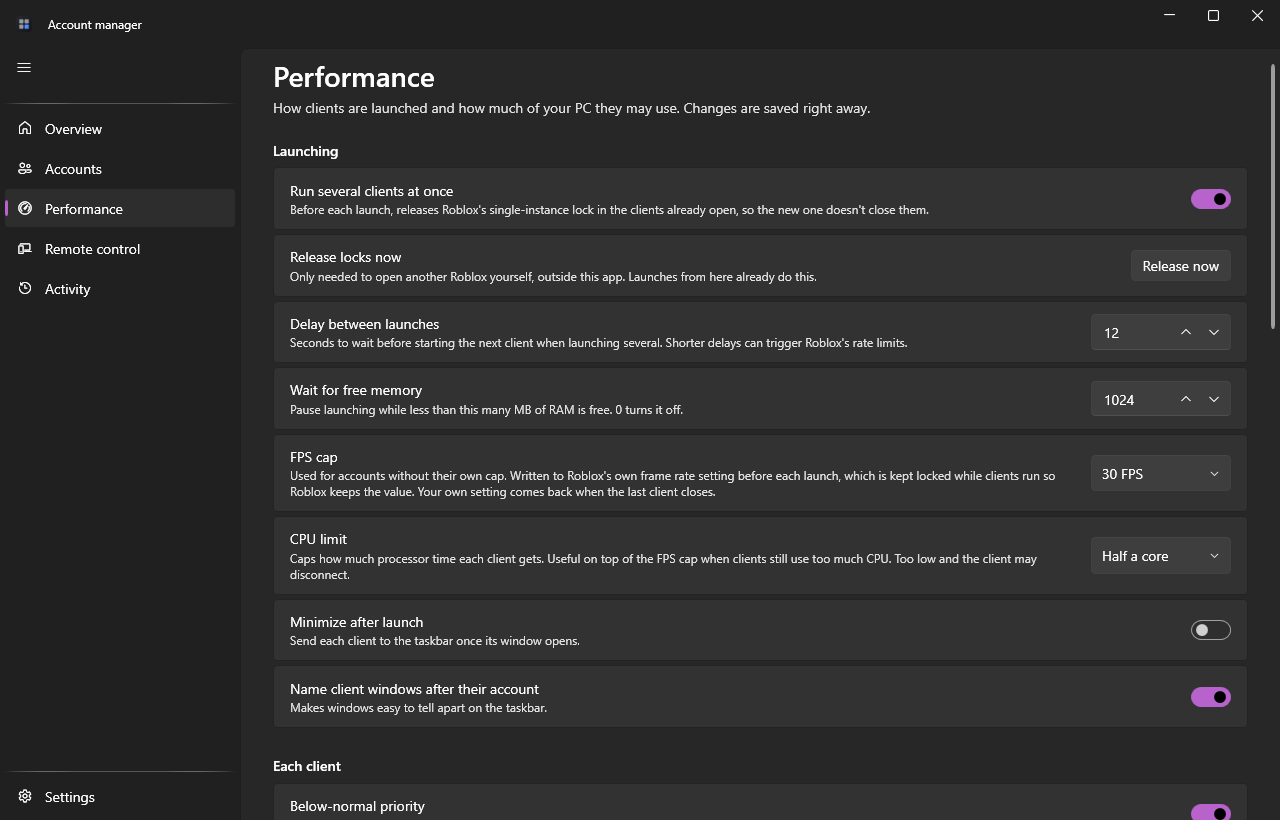
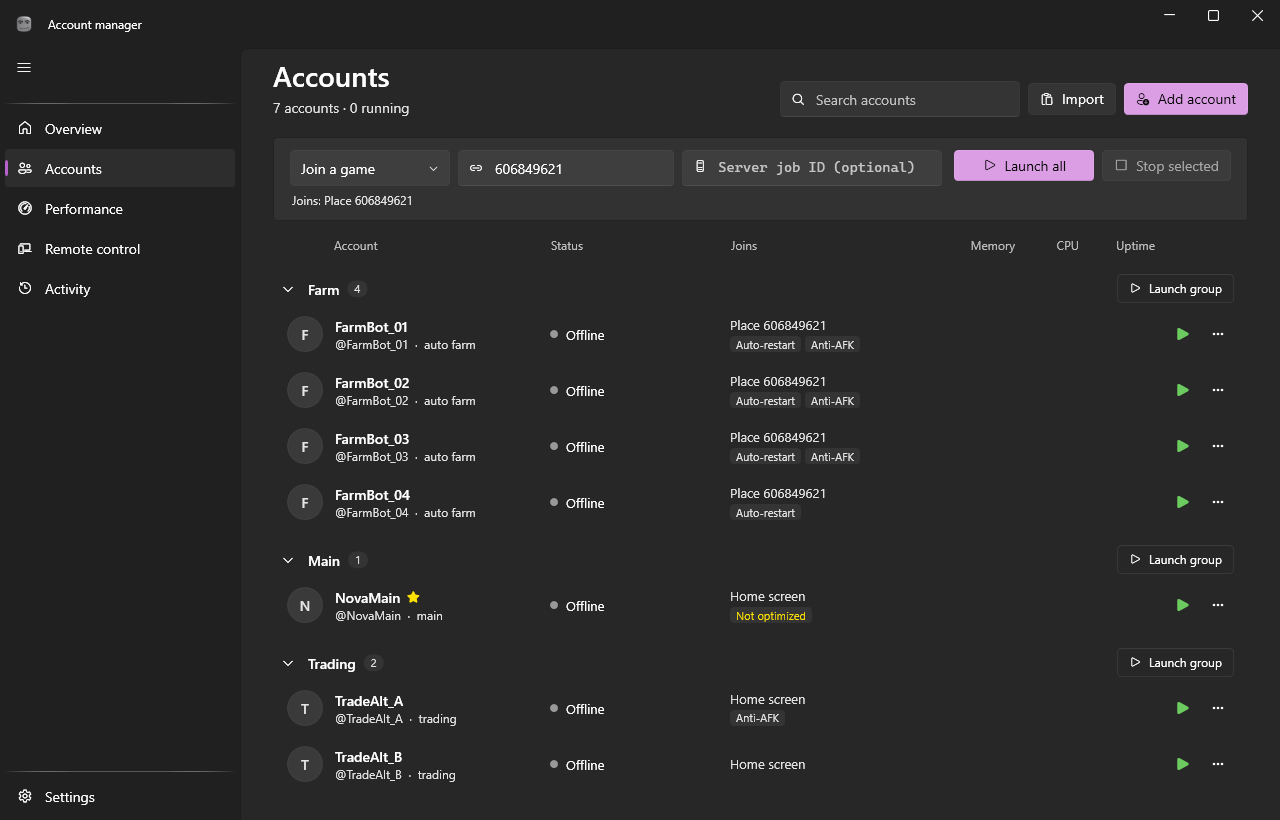
Show the Accounts page in the README screenshot

diff --git a/README.md b/README.md
@@ -2,7 +2,7 @@
 
 A Windows app for running several Roblox accounts at once without your PC grinding to a halt.
 
-![The Performance page](docs/screenshot.png)
+![The Accounts page with accounts in groups](docs/screenshot.png)
 
 ## What it does
 
